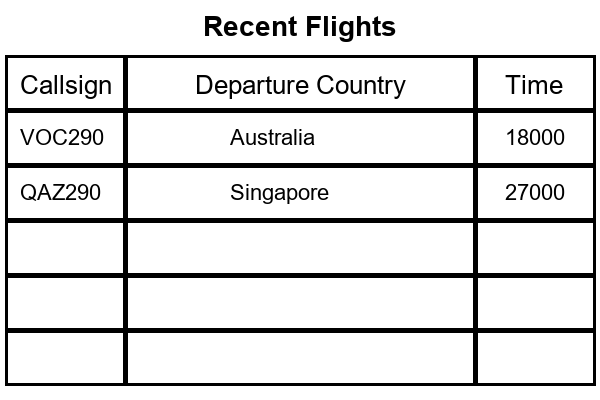
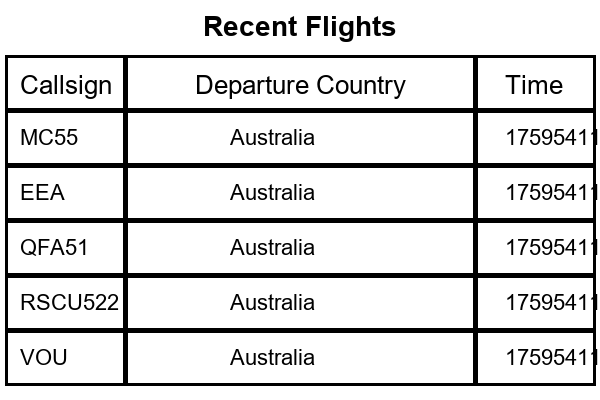
Map update linked to 60 second interval

diff --git a/src/main.py b/src/main.py
@@ -3,6 +3,7 @@ from Tracker import plotCoords
 from Services import generateMap
 from Services import generateHistory
 from staticmap import StaticMap, CircleMarker
+import time
 
 def main():
     # bounding box properties (fixed coordinates)
@@ -25,46 +26,48 @@ def main():
         "lomax": lomax,
     }
 
+    #flight details for testing list, calsign, lat, lon, pixX, pixY, Origin, Time (Unix)
+    # flights = [["VOC290", -27.44, 153.0, 0, 0, "Australia", 18000],
+    #            ["VOC291", -27.5, 153.15, 0, 0, "Singapore", 27000],
+    #            ["VOC292", -27.5, 153.15, 0, 0, "Brasil", 27000],
+    #            ["VOC293", -27.5, 153.15, 0, 0, "England", 27000],
+    #            ["VOC294", -27.5, 153.15, 0, 0, "New Zealand", 27000],
+    #            ["VOC295", -27.5, 153.15, 0, 0, "Mexico", 27000],]
+
+
     # Add your OpenSky Network credentials
     username = ""
     password = ""
 
-    # data = get_states(params=params, username=username, password=password)
+    while True:
+        #clear/ instantiate list
+        flights = []
+        
+        #call API
+        data = get_states(params=params, username=username, password=password)
 
-    # if data:
-    #     print("Successful Get")
-    #     print("API Response (JSON):")
-    #     print(data)
-    #     #callsigns = [state[1].strip() for state in data['states'] if state[1].strip() != "NoCallsign"]
-    #     flights = [
-    #         [state[1].strip(), state[6], state[5], 0, 0, state[2].strip(), state[3]]
-    #         for state in data['states']
-    #         if state[1].strip() != "NoCallsign" and state[6] != "NoLat" and state[5] != "NoLon"
-    #     ]
-    #     print(flights)
+        #if response parse wanted data to Flights list
+        if data:
+            print("Successful Get")
+            print("API Response (JSON):")
+            print(data)
+            #callsigns = [state[1].strip() for state in data['states'] if state[1].strip() != "NoCallsign"]
+            flights = [
+                [state[1].strip(), state[6], state[5], 0, 0, state[2].strip(), state[3]]
+                for state in data['states']
+                if state[1].strip() != "NoCallsign" and state[6] != "NoLat" and state[5] != "NoLon"
+            ]
+            print(flights)
+        
+        for plane in flights:
+            #convert lon/lat to pixelcoords
+            plane[3], plane[4] = plotCoords(lat = plane[1], lon = plane[2])
 
-    #get flight lon and lat
-    # lat = [state[6] for state in data['states'] if state[6] != "NoLat"]
-    # lon = [state[5] for state in data['states'] if state[5] != "NoLon"]
+        generateMap(flights)
 
-    #testing
-    # callsigns = "VOC290"
-    # lat = -27.5
-    # lon = 153
+        #generateHistory(flights)
 
-    #flight details for testing list, calsign, lat, lon, pixX, pixY, Origin, Time (Unix)
-    flights = [["VOC290", -27.44, 153.0, 0, 0, "Australia", 18000],
-               ["QAZ290", -27.5, 153.15, 0, 0, "Singapore", 27000]]
-    
-    
-    #for plane in flights:
-        #convert lon/lat to pixelcoords
-        #plane[3], plane[4] = plotCoords(lat = plane[1], lon = plane[2])
-
-
-    #generateMap(flights)
-
-    generateHistory(flights)
+        time.sleep(60)
 
 if __name__ == "__main__":
     main()

diff --git a/src/Services/history.py b/src/Services/history.py
@@ -13,6 +13,23 @@ def generateHistory(flights):
     #flight details for testing list, calsign, lat, lon, pixX, pixY, Origin, Time (Unix)
     # flights = [["VOC290", -27.44, 153.0, 0, 0, "", 0],
 
+    #recent history list
+    recent_flight = []
+
+    for plane in flights:
+        # skip if callsign already exists
+        if any(plane[0] == records[0] for records in recent_flight):
+            continue
+
+        #insert Callsign, Origin and Time from flights
+        recent_flight.insert(0, (plane[0], plane[5], plane[6]))
+
+        #shorten list if it is longer than 5
+        if len(recent_flight) > 5:
+            recent_flight = recent_flight[:5]
+    
+    print(recent_flight)
+
     # Image settings
     cell_widths = [120, 350, 120]  # Widths for each column
     row_height = 55
@@ -69,10 +86,10 @@ def generateHistory(flights):
     #API Text
     data_x_pos = [15, 225, 500]
     data_y_pos = [125, 180, 235, 290, 345]
-    for i, plane in enumerate(flights):
+    for i, plane in enumerate(recent_flight):
         callsign = plane[0]
-        origin = plane[5]
-        time = plane[6]
+        origin = plane[1]
+        time = plane[2]
         draw.text([x + data_x_pos[0], data_y_pos[i]], callsign, font=cell_font, fill="black")
         draw.text([x + data_x_pos[1], data_y_pos[i]], origin, font=cell_font, fill="black")
         draw.text([x + data_x_pos[2], data_y_pos[i]], str(time), font=cell_font, fill="black")

diff --git a/src/Tracker/fetch.py b/src/Tracker/fetch.py
@@ -3,24 +3,14 @@ import requests
 #defining opensky api
 base_url = "https://opensky-network.org/api/states/all"
 
-# Cache storage so we don't hit API more than once per run
-_cached_result = None
-
 def get_states(params=None, username=None, password=None):
-    global _cached_result
-
-    if _cached_result is not None:
-        print("Returning cached result (no new API call).")
-        return _cached_result
-
     try:
         # Add authentication if credentials are provided
         auth = (username, password) if username and password else None
         response = requests.get(base_url, params=params, auth=auth)
 
         if response.status_code == 200:
-            _cached_result = response.json()
-            return _cached_result
+            return response.json()
         else:
             #error message and code 
             print(f"Error: API Call failed with status code {response.status_code}")

diff --git a/src/Services/map.py b/src/Services/map.py
@@ -1,5 +1,6 @@
 from staticmap import StaticMap, CircleMarker
 from PIL import Image, ImageDraw, ImageFont
+import time
 
 
 def generateMap (flights):
